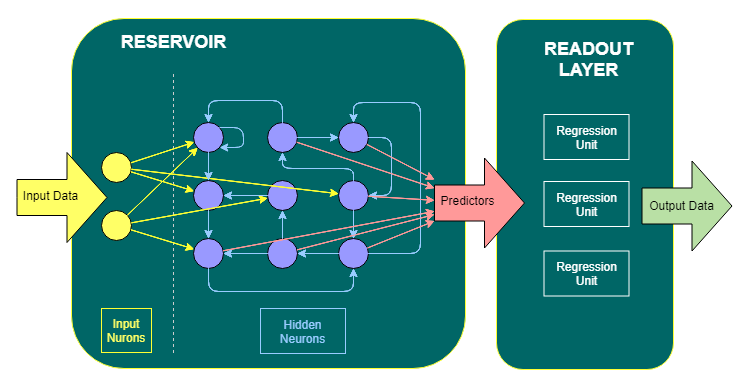
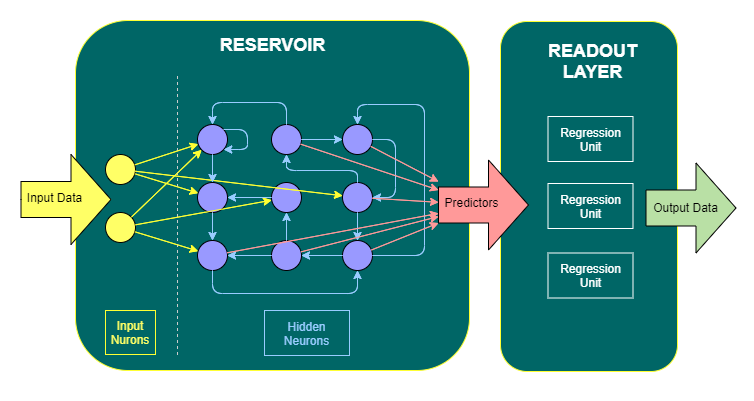
Cleanup and doc. images

diff --git a/Demo/DemoConsoleApp/Playground.cs b/Demo/DemoConsoleApp/Playground.cs
@@ -354,12 +354,13 @@ namespace Demo.DemoConsoleApp
             VectorBundle verifyData = VectorBundle.Load(verifyCsvData, numOfClasses);
             Console.WriteLine($"Cluster training on {trainDataFile}...");
             //TRAINING
-            List<FeedForwardNetworkSettings> netCfgs = new List<FeedForwardNetworkSettings>();
-            netCfgs.Add(new FeedForwardNetworkSettings(new AFAnalogSoftMaxSettings(),
-                                                       new HiddenLayersSettings(new HiddenLayerSettings(30, new AFAnalogTanHSettings())),
-                                                       new RPropTrainerSettings(5, 750)
-                                                       )
-                        );
+            List<FeedForwardNetworkSettings> netCfgs = new List<FeedForwardNetworkSettings>
+            {
+                new FeedForwardNetworkSettings(new AFAnalogSoftMaxSettings(),
+                                               new HiddenLayersSettings(new HiddenLayerSettings(30, new AFAnalogTanHSettings())),
+                                               new RPropTrainerSettings(5, 750)
+                                               )
+            };
             ITNRNetClusterSettings clusterCfg = new TNRNetClusterProbabilisticSettings(new TNRNetClusterProbabilisticNetworksSettings(netCfgs),
                                                                                        new TNRNetClusterProbabilisticWeightsSettings()
                                                                                        );
@@ -415,26 +416,27 @@ namespace Demo.DemoConsoleApp
             //Common crossvalidation configuration
             CrossvalidationSettings crossvalidationCfg = new CrossvalidationSettings(foldDataRatio, 0, 2);
             //TRAINING
-            List<FeedForwardNetworkSettings> netCfgs1 = new List<FeedForwardNetworkSettings>();
-            netCfgs1.Add(new FeedForwardNetworkSettings(new AFAnalogSoftMaxSettings(),
-                                                        new HiddenLayersSettings(new HiddenLayerSettings(20, new AFAnalogTanHSettings())),
-                                                        new RPropTrainerSettings(5, 750)
-                                                        )
-                        );
-            netCfgs1.Add(new FeedForwardNetworkSettings(new AFAnalogSoftMaxSettings(),
-                                                        new HiddenLayersSettings(new HiddenLayerSettings(20, new AFAnalogLeakyReLUSettings())),
-                                                        new RPropTrainerSettings(5, 750)
-                                                        )
-                        );
+            List<FeedForwardNetworkSettings> netCfgs1 = new List<FeedForwardNetworkSettings>
+            {
+                new FeedForwardNetworkSettings(new AFAnalogSoftMaxSettings(),
+                                               new HiddenLayersSettings(new HiddenLayerSettings(20, new AFAnalogTanHSettings())),
+                                               new RPropTrainerSettings(5, 750)
+                                               ),
+                new FeedForwardNetworkSettings(new AFAnalogSoftMaxSettings(),
+                                               new HiddenLayersSettings(new HiddenLayerSettings(20, new AFAnalogLeakyReLUSettings())),
+                                               new RPropTrainerSettings(5, 750)
+                                               )
+            };
             TNRNetClusterProbabilisticSettings clusterCfg1 = new TNRNetClusterProbabilisticSettings(new TNRNetClusterProbabilisticNetworksSettings(netCfgs1),
                                                                                         new TNRNetClusterProbabilisticWeightsSettings()
                                                                                         );
-            List<FeedForwardNetworkSettings> netCfgs2 = new List<FeedForwardNetworkSettings>();
-            netCfgs2.Add(new FeedForwardNetworkSettings(new AFAnalogSoftMaxSettings(),
-                                                        new HiddenLayersSettings(new HiddenLayerSettings(20, new AFAnalogTanHSettings())),
-                                                        new RPropTrainerSettings(5, 750)
-                                                        )
-                        );
+            List<FeedForwardNetworkSettings> netCfgs2 = new List<FeedForwardNetworkSettings>
+            {
+                new FeedForwardNetworkSettings(new AFAnalogSoftMaxSettings(),
+                                               new HiddenLayersSettings(new HiddenLayerSettings(20, new AFAnalogTanHSettings())),
+                                               new RPropTrainerSettings(5, 750)
+                                               )
+            };
             TNRNetClusterProbabilisticSettings clusterCfg2 = new TNRNetClusterProbabilisticSettings(new TNRNetClusterProbabilisticNetworksSettings(netCfgs2),
                                                                                         new TNRNetClusterProbabilisticWeightsSettings()
                                                                                         );
@@ -489,12 +491,13 @@ namespace Demo.DemoConsoleApp
             VectorBundle verifyData = VectorBundle.Load(verifyCsvData, numOfClasses);
             Console.WriteLine($"Cluster training on {trainDataFile}...");
             //TRAINING
-            List<FeedForwardNetworkSettings> netCfgs = new List<FeedForwardNetworkSettings>();
-            netCfgs.Add(new FeedForwardNetworkSettings(new AFAnalogIdentitySettings(),
-                                                       new HiddenLayersSettings(new HiddenLayerSettings(30, new AFAnalogTanHSettings())),
-                                                       new RPropTrainerSettings(5, 750)
-                                                       )
-                        );
+            List<FeedForwardNetworkSettings> netCfgs = new List<FeedForwardNetworkSettings>
+            {
+                new FeedForwardNetworkSettings(new AFAnalogIdentitySettings(),
+                                               new HiddenLayersSettings(new HiddenLayerSettings(30, new AFAnalogTanHSettings())),
+                                               new RPropTrainerSettings(5, 750)
+                                               )
+            };
             ITNRNetClusterSettings clusterCfg = new TNRNetClusterRealSettings(new TNRNetClusterRealNetworksSettings(netCfgs),
                                                                               new TNRNetClusterRealWeightsSettings()
                                                                               );

diff --git a/RCNet/Neural/Network/SM/StateMachine.cs b/RCNet/Neural/Network/SM/StateMachine.cs
@@ -230,27 +230,27 @@ namespace RCNet.Neural.Network.SM
         /// <summary>
         /// Performs the training of the state machine.
         /// </summary>
-        /// <param name="vectorBundle">The training data bundle.</param>
+        /// <param name="trainingData">The training data bundle.</param>
         /// <param name="controller">The build process controller (optional).</param>
         /// <returns>The training results.</returns>
-        public TrainingResults Train(VectorBundle vectorBundle, TNRNetBuilder.BuildControllerDelegate controller = null)
+        public TrainingResults Train(VectorBundle trainingData, TNRNetBuilder.BuildControllerDelegate controller = null)
         {
             //StateMachine reset
             Reset();
-            VectorBundle readoutInput;
+            VectorBundle readoutTrainingData;
             NeuralPreprocessor.PreprocessingOverview preprocessingOverview = null;
             if (NP == null)
             {
                 //Neural preprocessor is bypassed
-                readoutInput = vectorBundle;
+                readoutTrainingData = trainingData;
             }
             else
             {
                 //Neural preprocessing
-                readoutInput = NP.InitializeAndPreprocessBundle(vectorBundle, out preprocessingOverview);
+                readoutTrainingData = NP.InitializeAndPreprocessBundle(trainingData, out preprocessingOverview);
             }
             //Training of the readout layer 
-            ReadoutLayer.RegressionOverview regressionOverview = RL.Build(readoutInput, BuildPredictorsMapper(), controller, Config.RandomizerSeek);
+            ReadoutLayer.RegressionOverview regressionOverview = RL.Build(readoutTrainingData, BuildPredictorsMapper(), controller, Config.RandomizerSeek);
             //Return the training results
             return new TrainingResults(preprocessingOverview, regressionOverview);
         }
@@ -261,27 +261,27 @@ namespace RCNet.Neural.Network.SM
         /// <remarks>
         /// Performs the data bundle and evaluates the computed data against the ideal data.
         /// </remarks>
-        /// <param name="vectorBundle">The verification data bundle.</param>
+        /// <param name="verificationData">The verification data bundle.</param>
         /// <returns>The verification results.</returns>
-        public VerificationResults Verify(VectorBundle vectorBundle)
+        public VerificationResults Verify(VectorBundle verificationData)
         {
             VerificationResults verificationResults = new VerificationResults(Config.ReadoutLayerCfg);
-            for (int sampleIdx = 0; sampleIdx < vectorBundle.InputVectorCollection.Count; sampleIdx++)
+            for (int sampleIdx = 0; sampleIdx < verificationData.InputVectorCollection.Count; sampleIdx++)
             {
                 double[] predictors;
                 if (NP == null)
                 {
                     //Neural preprocessor is bypassed
-                    predictors = vectorBundle.InputVectorCollection[sampleIdx];
+                    predictors = verificationData.InputVectorCollection[sampleIdx];
                 }
                 else
                 {
                     //Neural preprocessing
-                    predictors = NP.Preprocess(vectorBundle.InputVectorCollection[sampleIdx]);
+                    predictors = NP.Preprocess(verificationData.InputVectorCollection[sampleIdx]);
                 }
                 double[] outputVector = RL.Compute(predictors, out ReadoutLayer.ReadoutData readoutData);
-                verificationResults.Update(predictors, readoutData, vectorBundle.OutputVectorCollection[sampleIdx]);
-                VerificationProgressChanged(vectorBundle.InputVectorCollection.Count, sampleIdx + 1);
+                verificationResults.Update(predictors, readoutData, verificationData.OutputVectorCollection[sampleIdx]);
+                VerificationProgressChanged(verificationData.InputVectorCollection.Count, sampleIdx + 1);
             }
             return verificationResults;
         }

diff --git a/Demo/DemoConsoleApp/Examples/TTOOForecastFromScratch.cs b/Demo/DemoConsoleApp/Examples/TTOOForecastFromScratch.cs
@@ -1,15 +1,10 @@
-using System;
-using System.IO;
-using RCNet.Extensions;
-using RCNet.Neural.Activation;
-using RCNet.Neural.Data.Coders.AnalogToSpiking;
+using RCNet.Neural.Activation;
 using RCNet.Neural.Data.Filter;
 using RCNet.Neural.Network.NonRecurrent;
 using RCNet.Neural.Network.NonRecurrent.FF;
 using RCNet.Neural.Network.SM;
 using RCNet.Neural.Network.SM.Preprocessing;
 using RCNet.Neural.Network.SM.Preprocessing.Input;
-using RCNet.Neural.Network.SM.Preprocessing.Neuron;
 using RCNet.Neural.Network.SM.Preprocessing.Neuron.Predictor;
 using RCNet.Neural.Network.SM.Preprocessing.Reservoir;
 using RCNet.Neural.Network.SM.Preprocessing.Reservoir.Pool;
@@ -18,6 +13,8 @@ using RCNet.Neural.Network.SM.Preprocessing.Reservoir.Space3D;
 using RCNet.Neural.Network.SM.Preprocessing.Reservoir.SynapseNS;
 using RCNet.Neural.Network.SM.Readout;
 using RCNet.RandomValue;
+using System;
+using System.IO;
 
 namespace Demo.DemoConsoleApp.Examples
 {
@@ -116,7 +113,7 @@ namespace Demo.DemoConsoleApp.Examples
             PoolSettings poolCfg = new PoolSettings(poolName,
                                                     new ProportionsSettings(dimX, dimY, dimZ),
                                                     new NeuronGroupsSettings(grpCfg),
-                                                    new InterconnSettings(chainSchemaCfg, randomSchemaCfg )
+                                                    new InterconnSettings(chainSchemaCfg, randomSchemaCfg)
                                                     );
             return poolCfg;
         }
@@ -332,7 +329,7 @@ namespace Demo.DemoConsoleApp.Examples
             stateMachine.Serialize(serializationFileName);
 
             //Forecasting
-             double[] outputVector = stateMachine.Compute(predictionInputVector, out ReadoutLayer.ReadoutData readoutData);
+            double[] outputVector = stateMachine.Compute(predictionInputVector, out ReadoutLayer.ReadoutData readoutData);
             _log.Write("    Forecasted next High and Low TTOO prices (real prices on 2018/03/05 are High=6.58$ and Low=5.99$):", false);
             _log.Write(stateMachine.RL.GetForecastReport(outputVector, 6));
             _log.Write(string.Empty);

diff --git a/RCNet/Neural/Network/SM/Preprocessing/Input/InputEncoder.cs b/RCNet/Neural/Network/SM/Preprocessing/Input/InputEncoder.cs
@@ -196,14 +196,14 @@ namespace RCNet.Neural.Network.SM.Preprocessing.Input
             foreach (ExternalFieldSettings fieldCfg in _encoderCfg.VaryingFieldsCfg.ExternalFieldsCfg.FieldCfgCollection)
             {
                 _varyingFields.Add(new InputField(fieldCfg.Name,
-                                          fieldIdx++,
-                                          coordinates,
-                                          Interval.IntN1P1,
-                                          fieldCfg.FeatureFilterCfg,
-                                          _encoderCfg.VaryingFieldsCfg.InputSpikesCoderCfg,
-                                          (fieldCfg.RouteToReadout && _encoderCfg.VaryingFieldsCfg.RouteToReadout),
-                                          inputNeuronStartIdx
-                                          ));
+                                                  fieldIdx++,
+                                                  coordinates,
+                                                  Interval.IntN1P1,
+                                                  fieldCfg.FeatureFilterCfg,
+                                                  _encoderCfg.VaryingFieldsCfg.InputSpikesCoderCfg,
+                                                 (fieldCfg.RouteToReadout && _encoderCfg.VaryingFieldsCfg.RouteToReadout),
+                                                 inputNeuronStartIdx
+                                                 ));
                 inputNeuronStartIdx += _varyingFields[(fieldIdx - _numOfSteadyFields) - 1].NumOfInputNeurons;
             }
             //Internal input transformers and fields

diff --git a/RCNet/Neural/Network/SM/Preprocessing/NeuralPreprocessor.cs b/RCNet/Neural/Network/SM/Preprocessing/NeuralPreprocessor.cs
@@ -45,16 +45,16 @@ namespace RCNet.Neural.Network.SM.Preprocessing
         /// <param name="totalNumOfInputs">The total number of inputs to be processed.</param>
         /// <param name="numOfProcessedInputs">The number of already processed inputs.</param>
         /// <param name="finalPreprocessingOverview">The final overview of the preprocessing.</param>
-        public delegate void PreprocessingProgressChangedDelegate(int totalNumOfInputs,
-                                                                  int numOfProcessedInputs,
-                                                                  PreprocessingOverview finalPreprocessingOverview
-                                                                  );
+        public delegate void PreprocessingProgressChangedHandler(int totalNumOfInputs,
+                                                                 int numOfProcessedInputs,
+                                                                 PreprocessingOverview finalPreprocessingOverview
+                                                                 );
         //Events
         /// <summary>
         /// This informative event occurs every time the progress of neural preprocessing has changed.
         /// </summary>
         [field: NonSerialized]
-        public event PreprocessingProgressChangedDelegate PreprocessingProgressChanged;
+        public event PreprocessingProgressChangedHandler PreprocessingProgressChanged;
 
 
         //Attribute properties

diff --git a/Demo/DemoConsoleApp/TimeSeriesGenerator.cs b/Demo/DemoConsoleApp/TimeSeriesGenerator.cs
@@ -78,13 +78,11 @@ namespace Demo.DemoConsoleApp
         /// <param name="cultureInfo">The culture info object to be used.</param>
         public static void SaveTimeSeriesToCsvFile(string fileName, string valueColumnName, List<double> dataCollection, CultureInfo cultureInfo)
         {
-            using (StreamWriter streamWriter = new StreamWriter(new FileStream(fileName, FileMode.Create)))
+            using StreamWriter streamWriter = new StreamWriter(new FileStream(fileName, FileMode.Create));
+            streamWriter.WriteLine(valueColumnName);
+            foreach (double value in dataCollection)
             {
-                streamWriter.WriteLine(valueColumnName);
-                foreach (double value in dataCollection)
-                {
-                    streamWriter.WriteLine(value.ToString("F20", cultureInfo));
-                }
+                streamWriter.WriteLine(value.ToString("F20", cultureInfo));
             }
             return;
         }

diff --git a/Readme.md b/Readme.md
@@ -185,7 +185,7 @@ See the [wiki pages.](https://en.wikipedia.org/wiki/Biological_neuron_model)
 
 ### State Machine components
 
-![Reservoir Computing conceptual view](./RCNet/Docs/Imgs/StateMachine_EntityRelationship.png)
+![StateMachine Components Relationship](./RCNet/Docs/Imgs/StateMachine_Components_Relationship.png)
 
 |Component|Description|
 |--|--|
@@ -199,9 +199,10 @@ See the [wiki pages.](https://en.wikipedia.org/wiki/Biological_neuron_model)
 |[NeuralPreprocessor](./RCNet/Neural/Network/SM/Preprocessing/NeuralPreprocessor.cs)|Implements the neural preprocessor supporting multiple reservoirs.|
 |[ReadoutUnit](./RCNet/Neural/Network/SM/Readout/ReadoutUnit.cs)|Implements the readout unit of the readout layer. It can do the Forecast or Classification.|
 |[OneTakesAllGroup](./RCNet/Neural/Network/SM/Readout/OneTakesAllGroup.cs)|Implements the "One Takes All" group of readout units. Supports basic decision-making based directly on the results of readout units and also more advanced decision-making based on the result of a dedicated chain of network clusters.|
+|[PredictorsMapper](./RCNet/Neural/Network/SM/Readout/PredictorsMapper.cs)|Implements the mapper of specific predictors to readout units.|
 |[ReadoutLayer](./RCNet/Neural/Network/SM/Readout/ReadoutLayer.cs)|Implements the readout layer consisting of trained readout units (and "One Takes All" groups).|
 
-### The State Machine
+### State Machine
 The main serializable [StateMachine](./RCNet/Neural/Network/SM/StateMachine.cs) component encapsulates the NeuralPreprocessor and ReadoutLayer components into the single component and adds support for routing of specific predictors and input fields to the specific readout units. State Machine also allows to bypass NeuralPreprocessor and to use input data directly as a predictors for the readout layer.
 
 #### Setup
